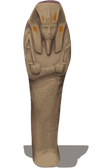
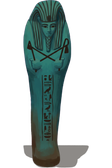
feat: starter's shabti repainted in turquoise faience
Claude-Session: https://claude.ai/code/session_01NQk9Q1WZoZfDzoRioyXby1

diff --git a/docs/instructions/repaint-queue.md b/docs/instructions/repaint-queue.md
@@ -193,55 +193,6 @@ the shabti is `--mesh=art/masters/meshes/shabti.glb`. `starter-plain.png` is the
 `art/masters/surfaces/starter-floor.webp` scaled to 1024, the crop every `<tier>-plain.png` is. The
 tally board has no scaffold: it attaches its own master.
 
-### `starter/statue` — a turquoise faience shabti
-
-NOT AN ENVELOPE, so this statue keeps the edge sentence the others drop. The scaffold is the `shabti.glb`
-scan, not `prim_statue`'s roughed-out block: its silhouette is already the figure's own, and the mask is
-that silhouette, so a contour carved inward would leave magenta inside it. What the preamble's statue
-rule nails down in words — frame, projection, facing, size — the sentence holds here for free. Its
-material is what moves: a SHABTI was most often blue-green faience, which is the merchant's turquoise and
-dark enough to stand on the pale floor where the old pale limestone could not.
-
-**Attach:**
-
-1. `~/tile-previews/render-shabti.png` — the scaffold
-2. `~/tile-previews/starter-plain.png` — the material reference
-
-```
-A wall-less product shot of a single object, painted in flat matte gouache, no background, on pure magenta #FF00FF. Portrait, two units wide by three tall, exactly as the reference. Do not re-compose it into a square. Paint over the reference image itself.
-
-The object: a SHABTI, a small servant figure for the afterlife, standing upright and facing the viewer.
-It is MUMMIFORM — wrapped, its body one smooth tapering shape with no limbs free. The rounded head-dress
-is a striped WIG; the shapes crossed on the chest are its two HOES held in the wrapped hands; the base
-under its feet is part of the same piece.
-
-Glazed FAIENCE, deep blue-green: #2a9d8f on its lit faces going to #1f7a70 and darker in the hollows and
-down its sides, the glaze thinner and darker at the base #3a2a1c. The details are painted in near-black
-manganese #2a1e14: the wig's stripes, the eyes, the hoes, and one vertical column of hieroglyphs down the
-front of the legs. It is a carved, glazed object with a fixed face, not a person: no skin, no anatomy, no
-expression.
-
-IT STANDS ON A PALE FLOOR AND MUST READ DARK ON IT. The floor is pale limestone, #d8c8a8. The object as a
-whole is clearly DARKER and more colourful than that: nothing on it larger than a fingertip is lighter
-than terracotta #c0612f, and only the turquoise #2a9d8f may be, in small touches. Its base, its underside
-and every part nearest the floor are its darkest, deep umber #3a2a1c. Nothing on it is white, cream,
-bleached, pale straw or whitewash — a pale part vanishes into the floor.
-
-Keep every edge, every proportion and every silhouette exactly as in the reference image — do not move, resize, straighten, add, remove or restyle any part of it, and do not change the angle it stands at. Paint only material and wear.
-
-The shadow at its foot is part of the picture: paint it #3A2A1C, with no pink and no purple in it at all.
-
-No highlights, no gloss, no rim light, no ground plane, no reflections. Matte throughout, as if lit by one dull lamp. Merchant's storehouse: fired terracotta #c0612f and #7e3a1a, honey-brown timber #9a6a3c and #5e3a1e, red ochre paint #b8452c, turquoise faience #2a9d8f. Saturated and warm — colour that reads from across the room — and never as pale as the floor it stands on.
-```
-
-Then, once the return is in `~/Downloads`:
-
-```sh
-meshscaffold shabti.glb
-yarn import-tile art/masters/props/starter/statue-shabti.webp --tier=starter --name=statue --slot=prop \
-  --filter=smooth --mask="$OBJ" --seat="$SHADOW"
-```
-
 ### `starter/hanging` — a striped awning cloth on a timber pole
 
 **Attach:**
